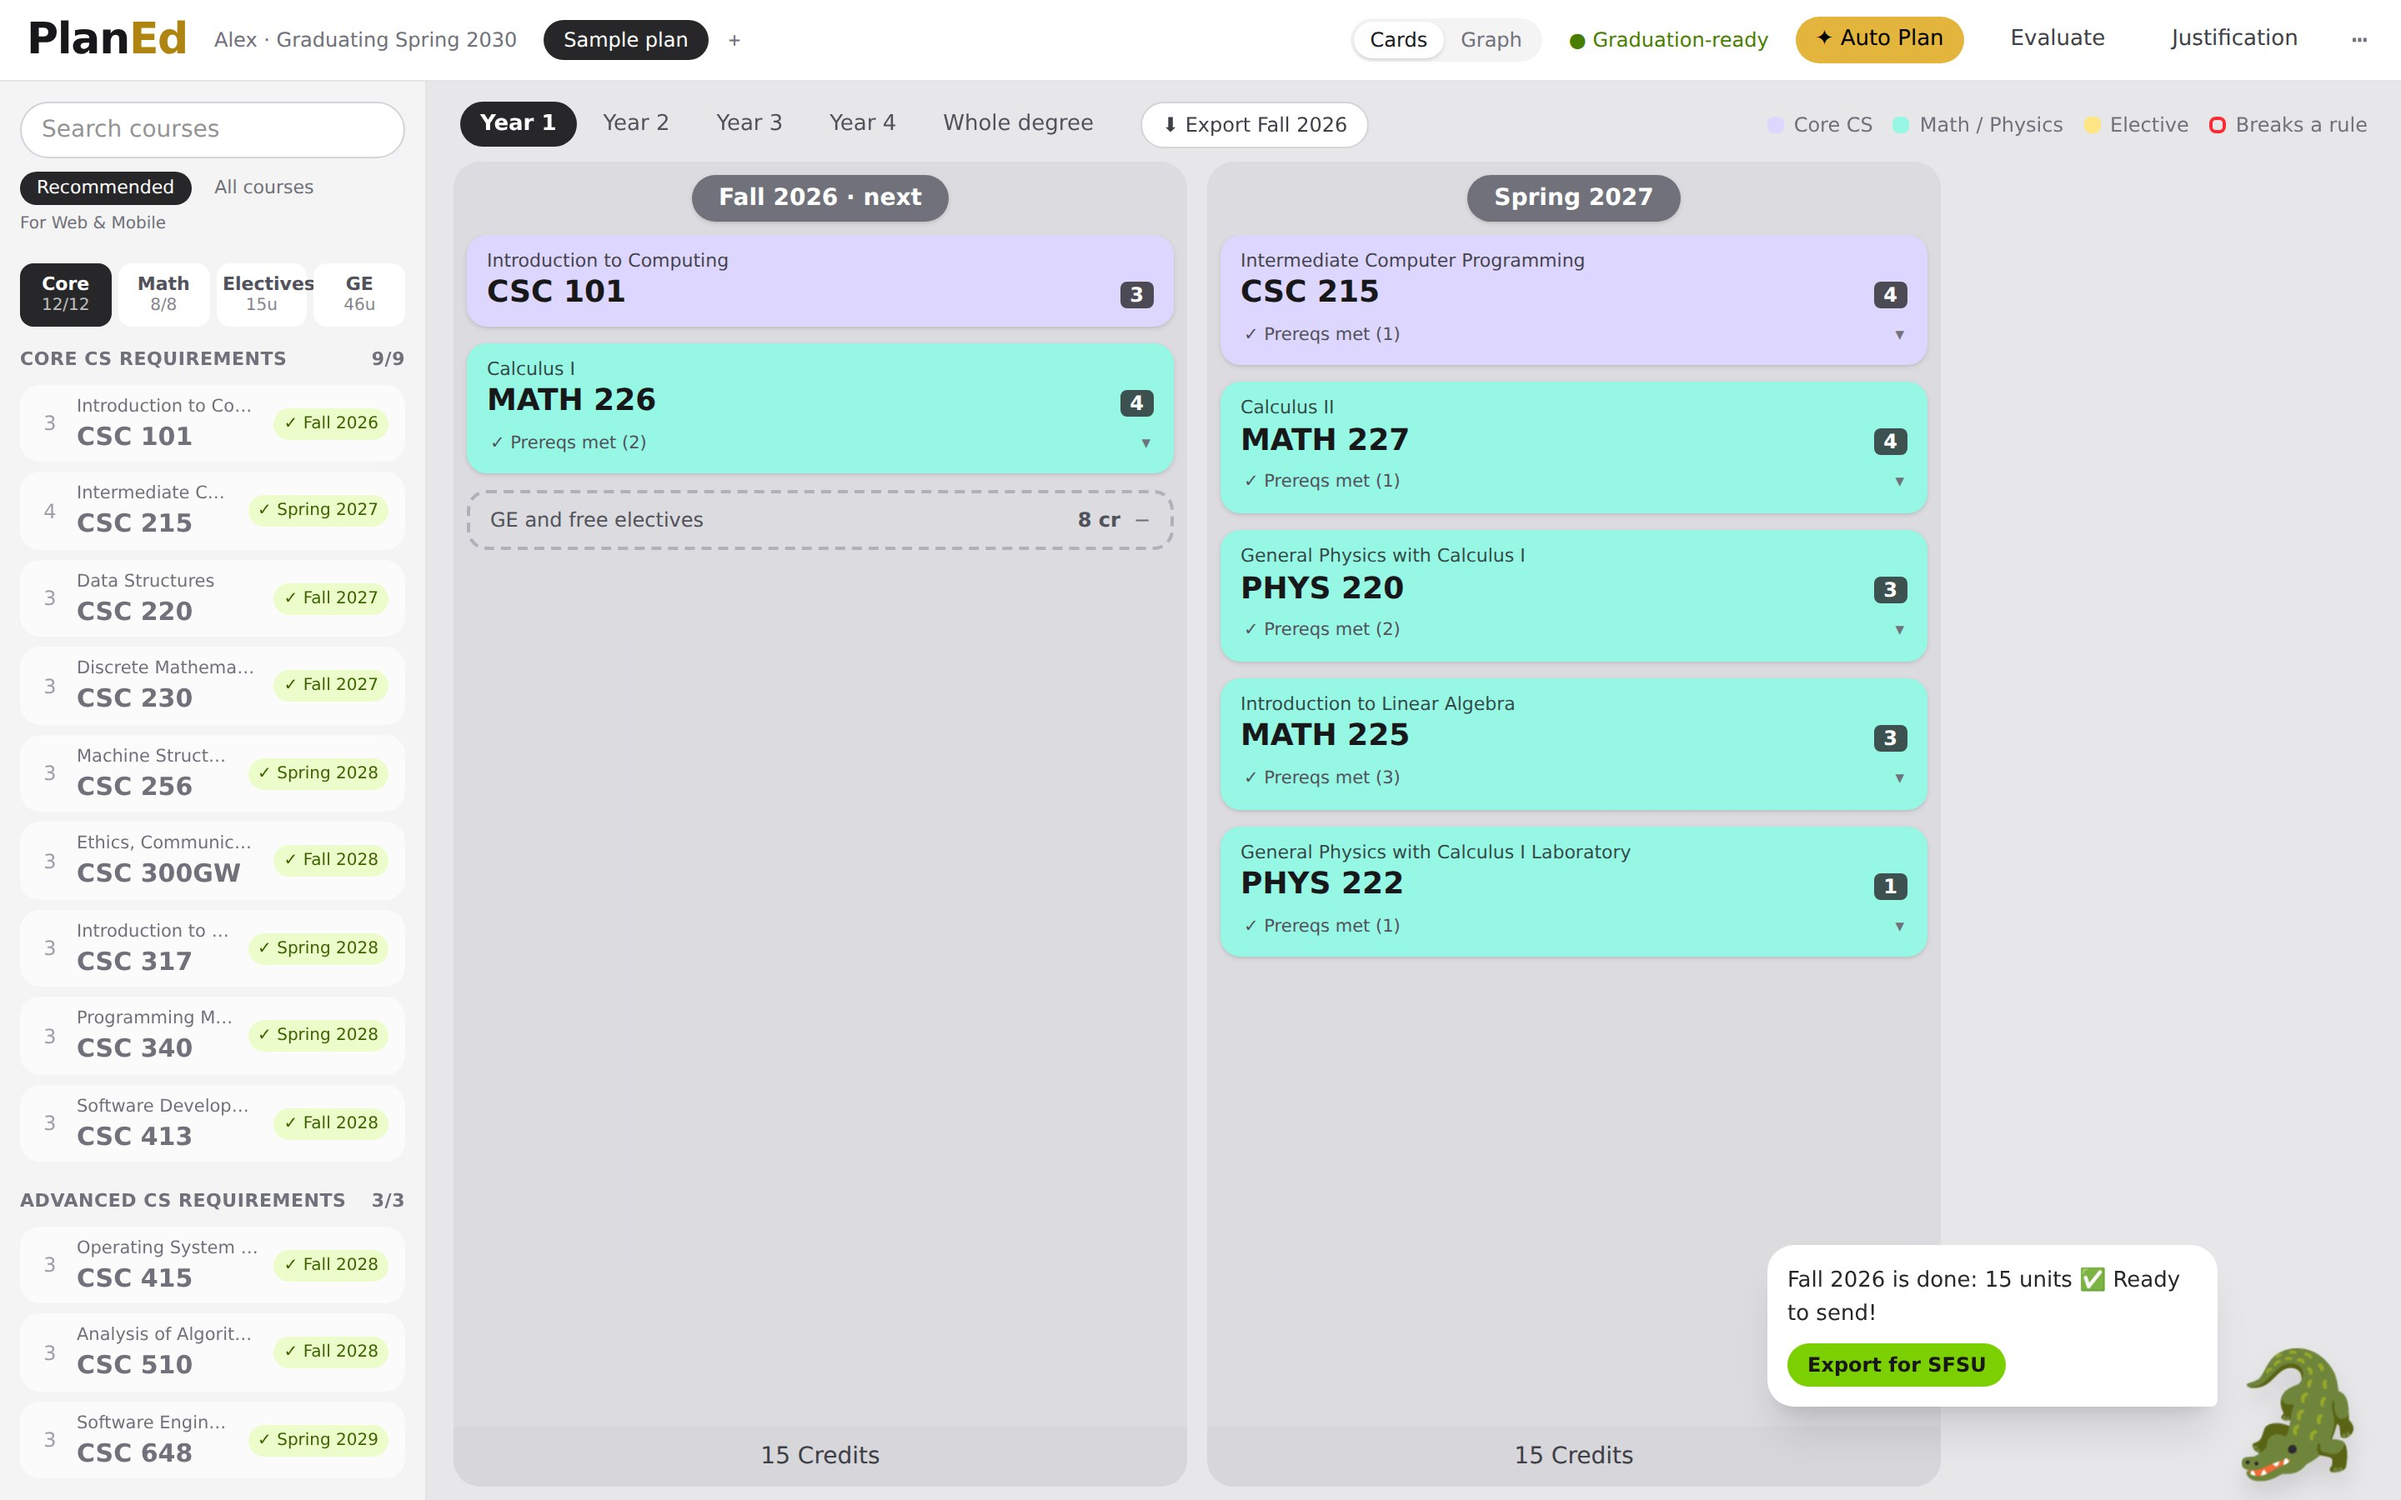
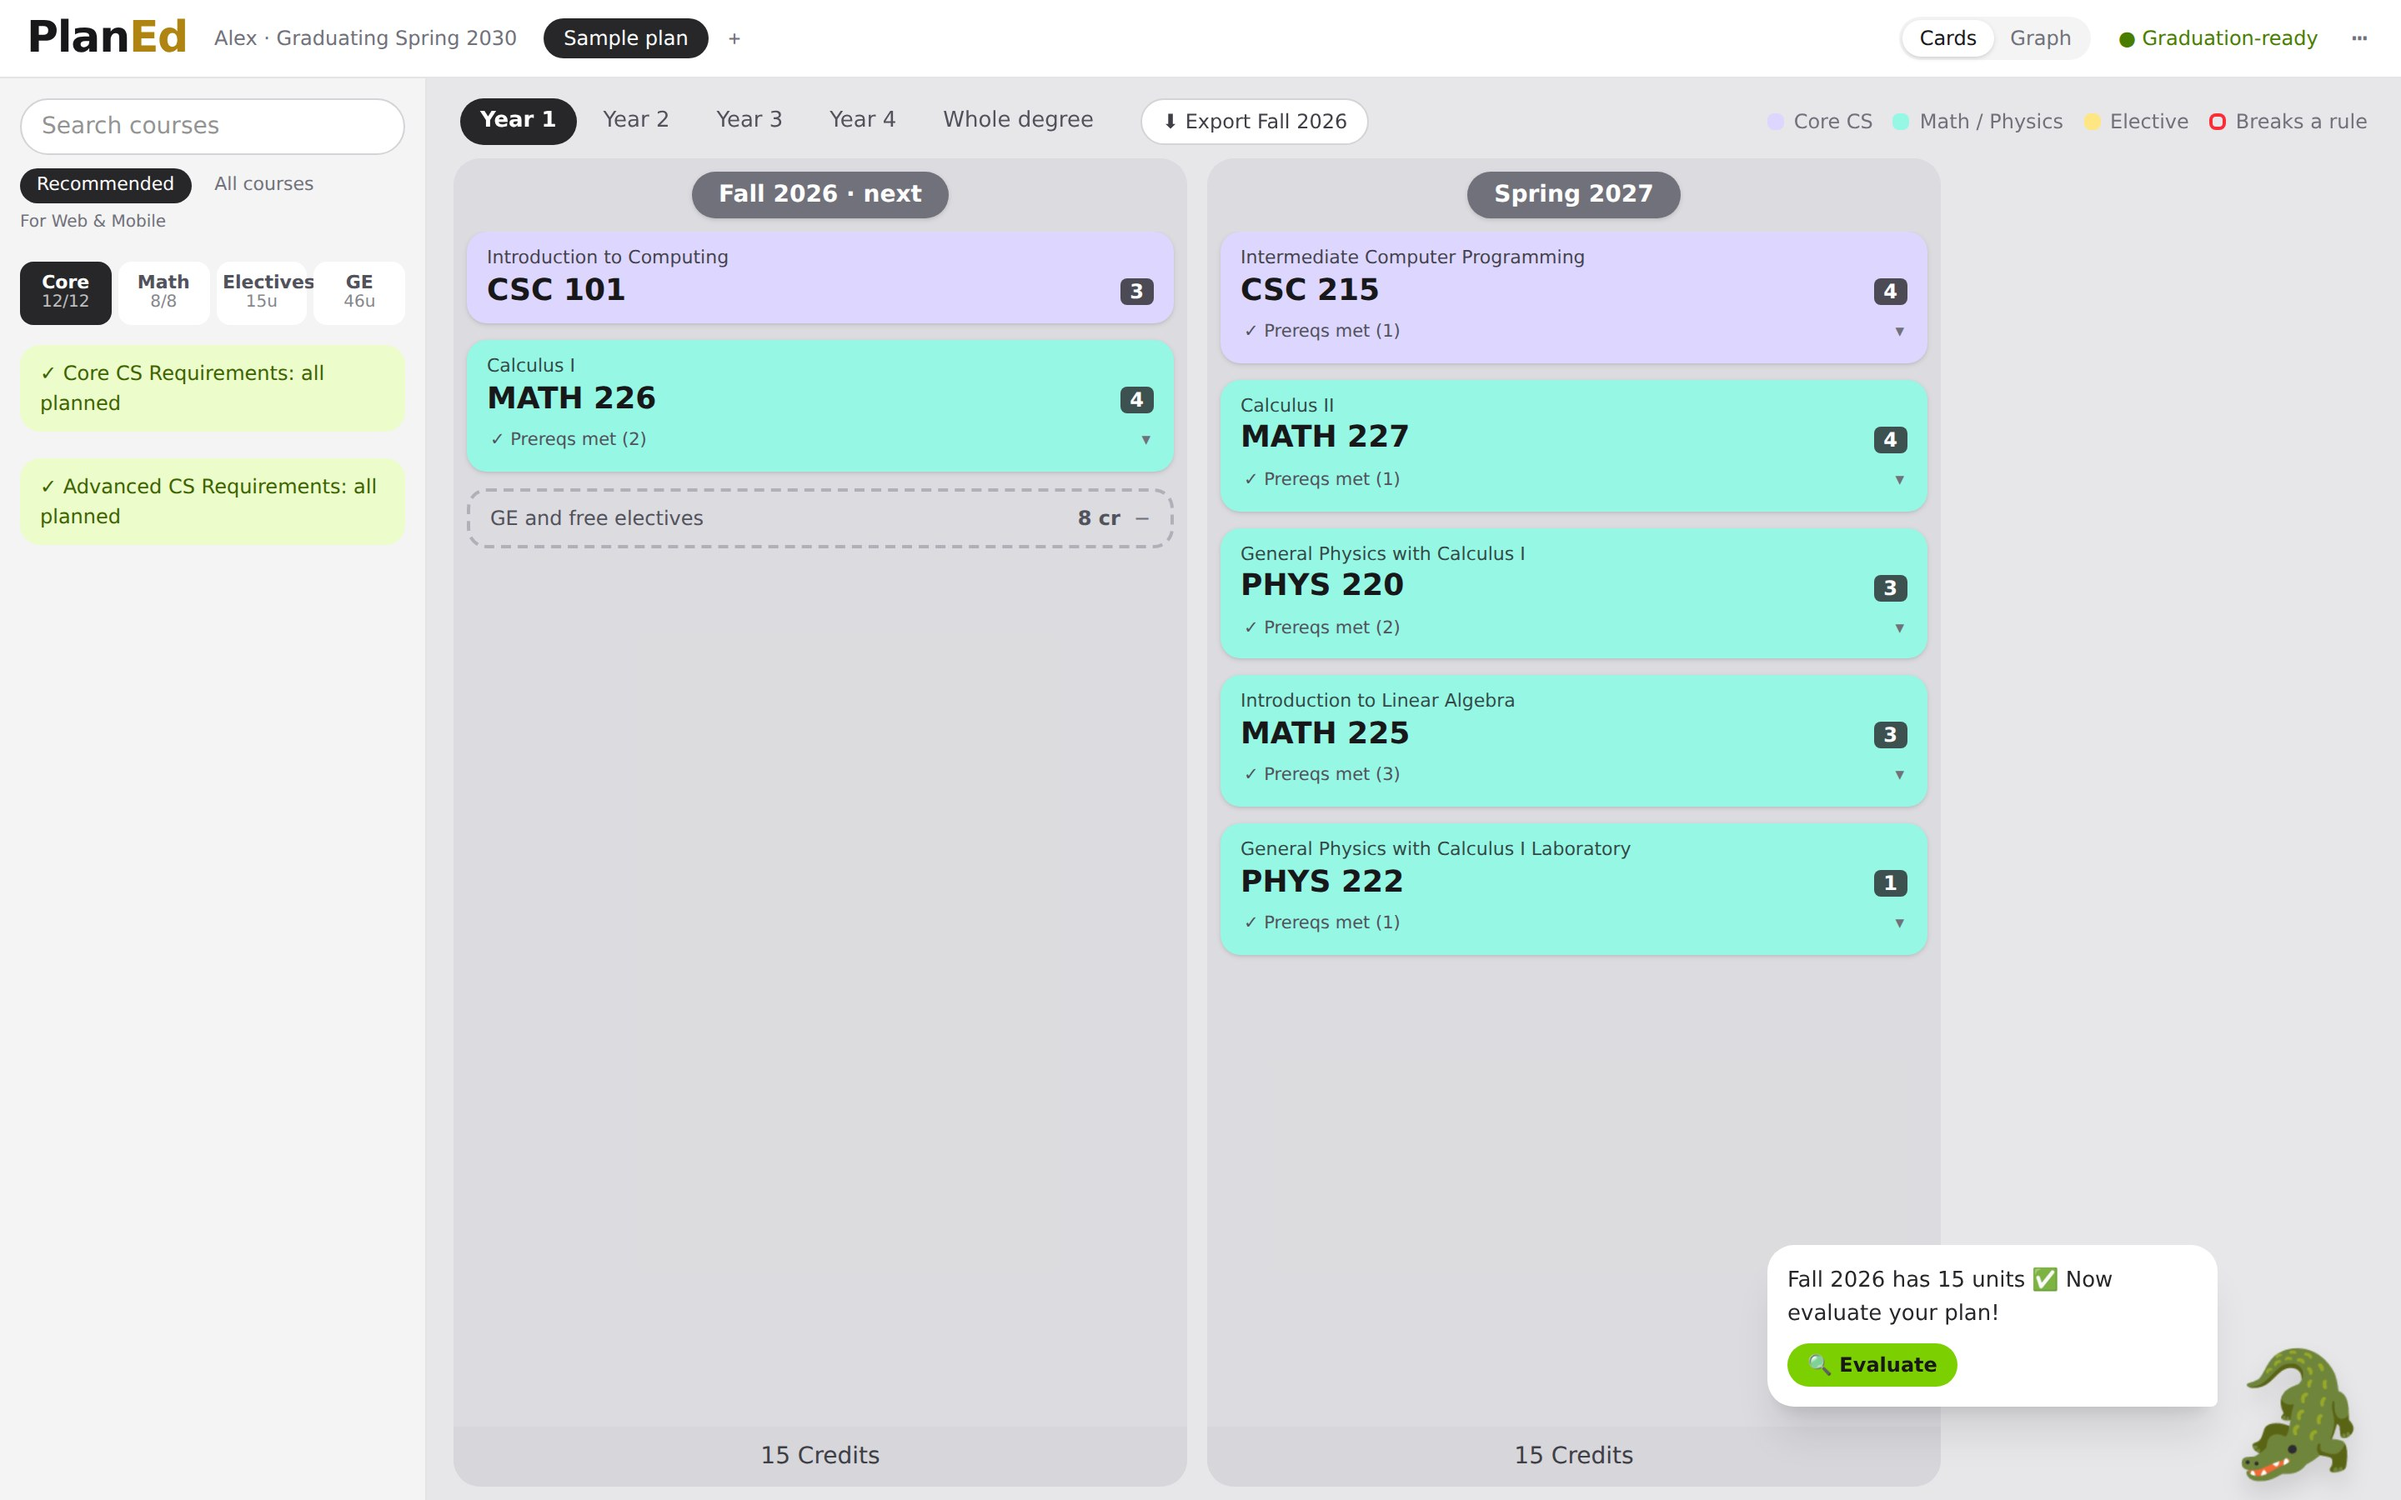
Website: newer PlanEd screenshots (gator menu, Auto Plan, game graph)
Screenshots retaken from the latest gatorgraph-build. Adds an Auto Plan
tab, swaps the Justification card for the gator menu, and updates the
graph copy to the levels/XP view.

Claude-Session: https://claude.ai/code/session_01KcRsWkybzKZpxWegqoHJG9

diff --git a/index.html b/index.html
@@ -52,7 +52,7 @@
       <p class="hero-note">Free and open source. Your answers stay in your browser.</p>
       <div class="hero-shot window reveal">
         <div class="window-bar"><i></i><i></i><i></i><span>planed · whole degree</span></div>
-        <img src="assets/img/whole.jpg" width="2880" height="1800" alt="PlanEd showing the whole degree as semester columns of color-coded course cards, with the course list on the left and the gator mascot offering to export Fall 2026 for SFSU.">
+        <img src="assets/img/whole.jpg" width="2880" height="1800" alt="PlanEd showing the whole degree as semester columns of color-coded course cards, with the requirement groups marked all planned and the gator mascot suggesting the next step.">
       </div>
     </div>
   </section>
@@ -113,6 +113,7 @@
         <div class="tablist" role="tablist" aria-label="Product features">
           <button class="tab" role="tab" id="t-chat" aria-controls="p-chat" aria-selected="true">Chat to start</button>
           <button class="tab" role="tab" id="t-cards" aria-controls="p-cards" aria-selected="false" tabindex="-1">Semester cards</button>
+          <button class="tab" role="tab" id="t-auto" aria-controls="p-auto" aria-selected="false" tabindex="-1">Auto Plan</button>
           <button class="tab" role="tab" id="t-graph" aria-controls="p-graph" aria-selected="false" tabindex="-1">Graph</button>
         </div>
         <div class="panel" role="tabpanel" id="p-chat" aria-labelledby="t-chat">
@@ -127,17 +128,25 @@
           <div>
             <h3>One card per course, colored by the rules.</h3>
             <p>Core CS is lavender, math and physics are mint, electives are yellow. A card that breaks a rule turns red and tells you where to go, with a one-click move.</p>
-            <ul><li>"Prereqs met" chips on every card</li><li>Credits per semester colored by SFSU's load rules</li><li>Drag cards between semesters, or press + in the course list</li><li>Year tabs, or the whole degree at once</li></ul>
+            <ul><li>"Prereqs met" chips on every card</li><li>Credits per semester colored by SFSU's load rules</li><li>Drag cards between semesters, or press + in the course list; placed courses leave the list</li><li>Year tabs, or the whole degree at once</li></ul>
           </div>
-          <div class="window"><img src="assets/img/cards.jpg" width="2880" height="1800" loading="lazy" alt="Year 1 in PlanEd: Fall 2026 and Spring 2027 columns of lavender and mint course cards, each with 'Prereqs met' and a unit badge, and 15 credits per semester."></div>
+          <div class="window"><img src="assets/img/cards.jpg" width="2880" height="1800" loading="lazy" alt="Year 1 in PlanEd: Fall 2026 and Spring 2027 columns of lavender and mint course cards with 'Prereqs met' chips and 15 credits each; the gator says Fall 2026 has 15 units and offers to evaluate."></div>
+        </div>
+        <div class="panel" role="tabpanel" id="p-auto" aria-labelledby="t-auto" hidden>
+          <div>
+            <h3>Watch it plan, one course at a time.</h3>
+            <p>Ask the gator to Auto plan your next semester. Cards pop in one by one, and each comes with a reason: "MATH 226: unlocks 5 later courses". Or plan the whole degree around your goal in one go.</p>
+            <ul><li>Gemini when live, the built-in planner offline, and the label says which</li><li>The semester stays red until it reaches full time</li></ul>
+          </div>
+          <div class="window"><img src="assets/img/autoplan.jpg" width="2880" height="1800" loading="lazy" alt="Auto Plan filling Fall 2026: MATH 226 and CSC 101 placed, the semester red at 7 credits with 'add 5+ for full time', and the gator saying 'PlanEd is planning Fall 2026: CSC 101 unlocks 1 later course'."></div>
         </div>
         <div class="panel" role="tabpanel" id="p-graph" aria-labelledby="t-graph" hidden>
           <div>
-            <h3>See how everything connects.</h3>
-            <p>Switch to Graph and each semester becomes a capsule on a dark canvas. Click a course to light up its prerequisite arrows. A slider sets how many semesters to show.</p>
-            <ul><li>Broken rules glow red</li><li>"One of" prerequisites drawn dashed</li></ul>
+            <h3>Your degree, as a game.</h3>
+            <p>Switch to Graph and each semester becomes a level, each course a bubble with its code inside. An XP bar fills as you plan toward 120 units. Click a course to light up its prerequisite arrows.</p>
+            <ul><li>The next semester is highlighted, finished ones are "cleared"</li><li>Broken rules glow red; "one of" prerequisites are dashed</li><li>A slider sets how many semesters to show</li></ul>
           </div>
-          <div class="window"><img src="assets/img/graph.jpg" width="2880" height="1800" loading="lazy" alt="PlanEd's graph view: Fall 2026 and Spring 2027 as capsules on a black canvas, with course nodes ringed in purple and teal and an arrow between semesters."></div>
+          <div class="window"><img src="assets/img/graph.jpg" width="2880" height="1800" loading="lazy" alt="PlanEd's graph view: Fall 2026 as Level 1 and Spring 2027 as Level 2 on a black canvas, with course bubbles ringed in purple and teal and an XP bar at 120 of 120."></div>
         </div>
       </div>
     </div>
@@ -155,13 +164,13 @@
           <span class="label label-ai">Gemini + rules engine</span>
           <h3>Evaluate</h3>
           <p>Your plan from start to end: the longest prerequisite chain, semester by semester. Then where it's heading (your career direction), paths to consider, and the rule check in the Bulletin's own words.</p>
-          <div class="shot tall"><img src="assets/img/evaluate-panel.jpg" width="840" height="1704" loading="lazy" alt="The Evaluate panel: PlanEd's reasoning steps, then 'Your plan, start to end' as a timeline from CSC 101 to CSC 603."></div>
+          <div class="shot tall"><img src="assets/img/evaluate-panel.jpg" width="838" height="1704" loading="lazy" alt="The Evaluate panel: PlanEd's reasoning steps, then 'Your plan, start to end' as a timeline from CSC 101 to CSC 603."></div>
         </div>
         <div class="card card-engine reveal">
-          <span class="label label-engine">Checked by rules engine</span>
-          <h3>Justification</h3>
-          <p>Why you can trust a plan: the mistakes the engine catches, SFSU's own sample roadmaps passing it, and how each planner compares on the same requirements.</p>
-          <div class="shot tall"><img src="assets/img/justification-panel.jpg" width="920" height="1704" loading="lazy" alt="The Justification panel: 'Why you can trust this plan', 9 of 9 planted mistakes caught, and SFSU's sample roadmaps passing with no errors."></div>
+          <span class="label label-engine">Your guide</span>
+          <h3>Ask the gator</h3>
+          <p>Click the gator for Auto plan, Evaluate, or Export for SFSU. It tells you what to add next, evaluates your plan on its own once the next semester has enough credits, and then keeps the tips coming.</p>
+          <div class="shot"><img src="assets/img/gator-menu.jpg" width="800" height="620" loading="lazy" alt="The gator's menu, 'What should I do?': Auto plan (fill Fall 2026 or the whole degree), Evaluate (where your plan leads, careers, rule check) and Export for SFSU (Fall 2026 as a one-page plan)."></div>
         </div>
       </div>
     </div>
@@ -174,11 +183,11 @@
         <h2>Small details, checked against the Bulletin.</h2>
       </div>
       <div class="grid reveal">
-        <div class="cell"><span class="ico t1"><svg viewBox="0 0 24 24" fill="none" stroke="currentColor" stroke-width="2" stroke-linecap="round" aria-hidden="true"><path d="M4 6h16M4 12h10M4 18h7"/></svg></span><h3>Course list with progress</h3><p>Core, Math, Electives and GE tabs show what's done and what's left, with recommended courses for your goal.</p></div>
+        <div class="cell"><span class="ico t1"><svg viewBox="0 0 24 24" fill="none" stroke="currentColor" stroke-width="2" stroke-linecap="round" aria-hidden="true"><path d="M4 6h16M4 12h10M4 18h7"/></svg></span><h3>Course list with progress</h3><p>Core, Math, Electives and GE tabs show what's left, with picks for your goal. The GE tab lists real SFSU GE courses by area.</p></div>
         <div class="cell"><span class="ico t2"><svg viewBox="0 0 24 24" fill="none" stroke="currentColor" stroke-width="2" stroke-linecap="round" aria-hidden="true"><path d="M12 3v18M5 8l7-5 7 5"/></svg></span><h3>Unit limits from policy</h3><p>Semesters turn red below full time and amber when heavy, using SFSU's own unit-load rules.</p></div>
         <div class="cell"><span class="ico t3"><svg viewBox="0 0 24 24" fill="none" stroke="currentColor" stroke-width="2" stroke-linecap="round" aria-hidden="true"><path d="M5 12h14M13 6l6 6-6 6"/></svg></span><h3>Broken courses say where to go</h3><p>A card that breaks a rule suggests a semester where it fits, with a one-click move.</p></div>
         <div class="cell"><span class="ico t4"><svg viewBox="0 0 24 24" fill="none" stroke="currentColor" stroke-width="2" stroke-linecap="round" aria-hidden="true"><path d="M12 4v11M7 10l5 5 5-5M5 20h14"/></svg></span><h3>Export for SFSU</h3><p>When next semester is ready, export it to take to registration.</p></div>
-        <div class="cell"><span class="ico t5"><svg viewBox="0 0 24 24" fill="none" stroke="currentColor" stroke-width="2" stroke-linecap="round" aria-hidden="true"><circle cx="12" cy="12" r="8"/><path d="M9 10h.01M15 10h.01M9 15c1.5 1 4.5 1 6 0"/></svg></span><h3>A gator that keeps you on track</h3><p>The gator reacts to your next semester (empty, too light, or ready) and nags until the credits are met.</p></div>
+        <div class="cell"><span class="ico t5"><svg viewBox="0 0 24 24" fill="none" stroke="currentColor" stroke-width="2" stroke-linecap="round" aria-hidden="true"><circle cx="12" cy="12" r="8"/><path d="M9 10h.01M15 10h.01M9 15c1.5 1 4.5 1 6 0"/></svg></span><h3>A gator that keeps you on track</h3><p>It reacts to your next semester (empty, too light, or ready), nags until the credits are met, then evaluates the plan for you.</p></div>
         <div class="cell"><span class="ico t6"><svg viewBox="0 0 24 24" fill="none" stroke="currentColor" stroke-width="2" stroke-linecap="round" aria-hidden="true"><path d="M10 14a4 4 0 0 0 5.7 0l3-3a4 4 0 0 0-5.7-5.7l-1 1"/><path d="M14 10a4 4 0 0 0-5.7 0l-3 3a4 4 0 0 0 5.7 5.7l1-1"/></svg></span><h3>Every rule sourced</h3><p>Every rule is traced to a Bulletin quote, and every AI step is saved so it can be replayed.</p></div>
       </div>
     </div>
@@ -192,8 +201,8 @@
       </div>
       <div class="steps reveal">
         <div class="step t1"><h3>Chat for a minute</h3><p>Tell PlanEd your major, what you've taken, when you want to graduate, and your dream job.</p></div>
-        <div class="step t2"><h3>Auto Plan, or drag</h3><p>Let Auto Plan fill the next semester or the whole degree, or drag courses in yourself.</p></div>
-        <div class="step t3"><h3>Check and export</h3><p>Fix anything red, open Evaluate to see where your plan is heading, then export next semester for SFSU.</p></div>
+        <div class="step t2"><h3>Auto Plan, or drag</h3><p>Ask the gator to Auto plan the next semester or the whole degree, or drag courses in yourself.</p></div>
+        <div class="step t3"><h3>Check and export</h3><p>Fix anything red, ask the gator to Evaluate where your plan is heading, then export next semester for SFSU.</p></div>
       </div>
     </div>
   </section>
